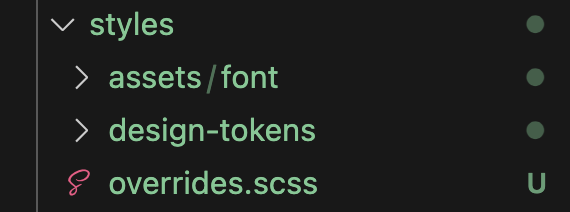
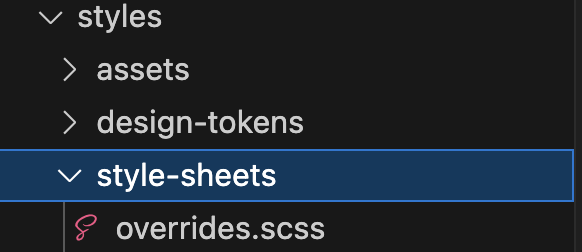
update the local import to match the node package import

diff --git a/style-sheets/overrides.scss b/style-sheets/overrides.scss
@@ -1,15 +1,15 @@
 @use "sass:map";
 
-@use "./design-tokens/type-family.scss" as types;
-@use "@carbon/type/scss/font-family.scss" with (
+@use "../design-tokens/type-family.scss" as types;
+@use "@carbon/type/scss/font-family" with (
   $font-families: types.$type-family,
   $font-weights: types.$font-weights
 );
 
 @use "@carbon/themes/scss/utilities";
-@use "./design-tokens/variables.scss" as variables;
-@use "./design-tokens/light-theme.scss" as light;
-@use "./design-tokens/dark-theme.scss" as dark;
+@use "../design-tokens/variables.scss" as variables;
+@use "../design-tokens/light-theme.scss" as light;
+@use "../design-tokens/dark-theme.scss" as dark;
 
 @use "@carbon/react/scss/themes";
 @use "@carbon/react/scss/theme" with (
@@ -18,16 +18,16 @@
 );
 
 @use "@carbon/react/scss/components/button/tokens" as button-tokens;
-@use "./design-tokens/light-buttons.scss" as light-button-overrides;
-@use "./design-tokens/dark-buttons.scss" as dark-button-overrides;
+@use "../design-tokens/light-buttons.scss" as light-button-overrides;
+@use "../design-tokens/dark-buttons.scss" as dark-button-overrides;
 
 @use "@carbon/react/scss/components/tag/tokens" as tag-tokens;
-@use "./design-tokens/light-tags.scss" as light-tag-overrides;
-@use "./design-tokens/dark-tags.scss" as dark-tag-overrides;
+@use "../design-tokens/light-tags.scss" as light-tag-overrides;
+@use "../design-tokens/dark-tags.scss" as dark-tag-overrides;
 
 @use "@carbon/react/scss/components/notification/tokens" as notification-tokens;
-@use "./design-tokens/light-notifications.scss" as light-notification-overrides;
-@use "./design-tokens/dark-notifications.scss" as dark-notification-overrides;
+@use "../design-tokens/light-notifications.scss" as light-notification-overrides;
+@use "../design-tokens/dark-notifications.scss" as dark-notification-overrides;
 
 @use "@carbon/react";
 @use "@carbon/styles/scss/grid";

diff --git a/README.md b/README.md
@@ -32,7 +32,7 @@ import { StrictMode, useState } from "react";
 import { createRoot } from "react-dom/client";
 import App from "./App.tsx";
 import "@carbon/styles/css/styles.css";
-import "./styles/overrides.scss";
+import "./styles/style-sheets/overrides.scss";
 
 import { Theme } from "@carbon/react";
 import {
